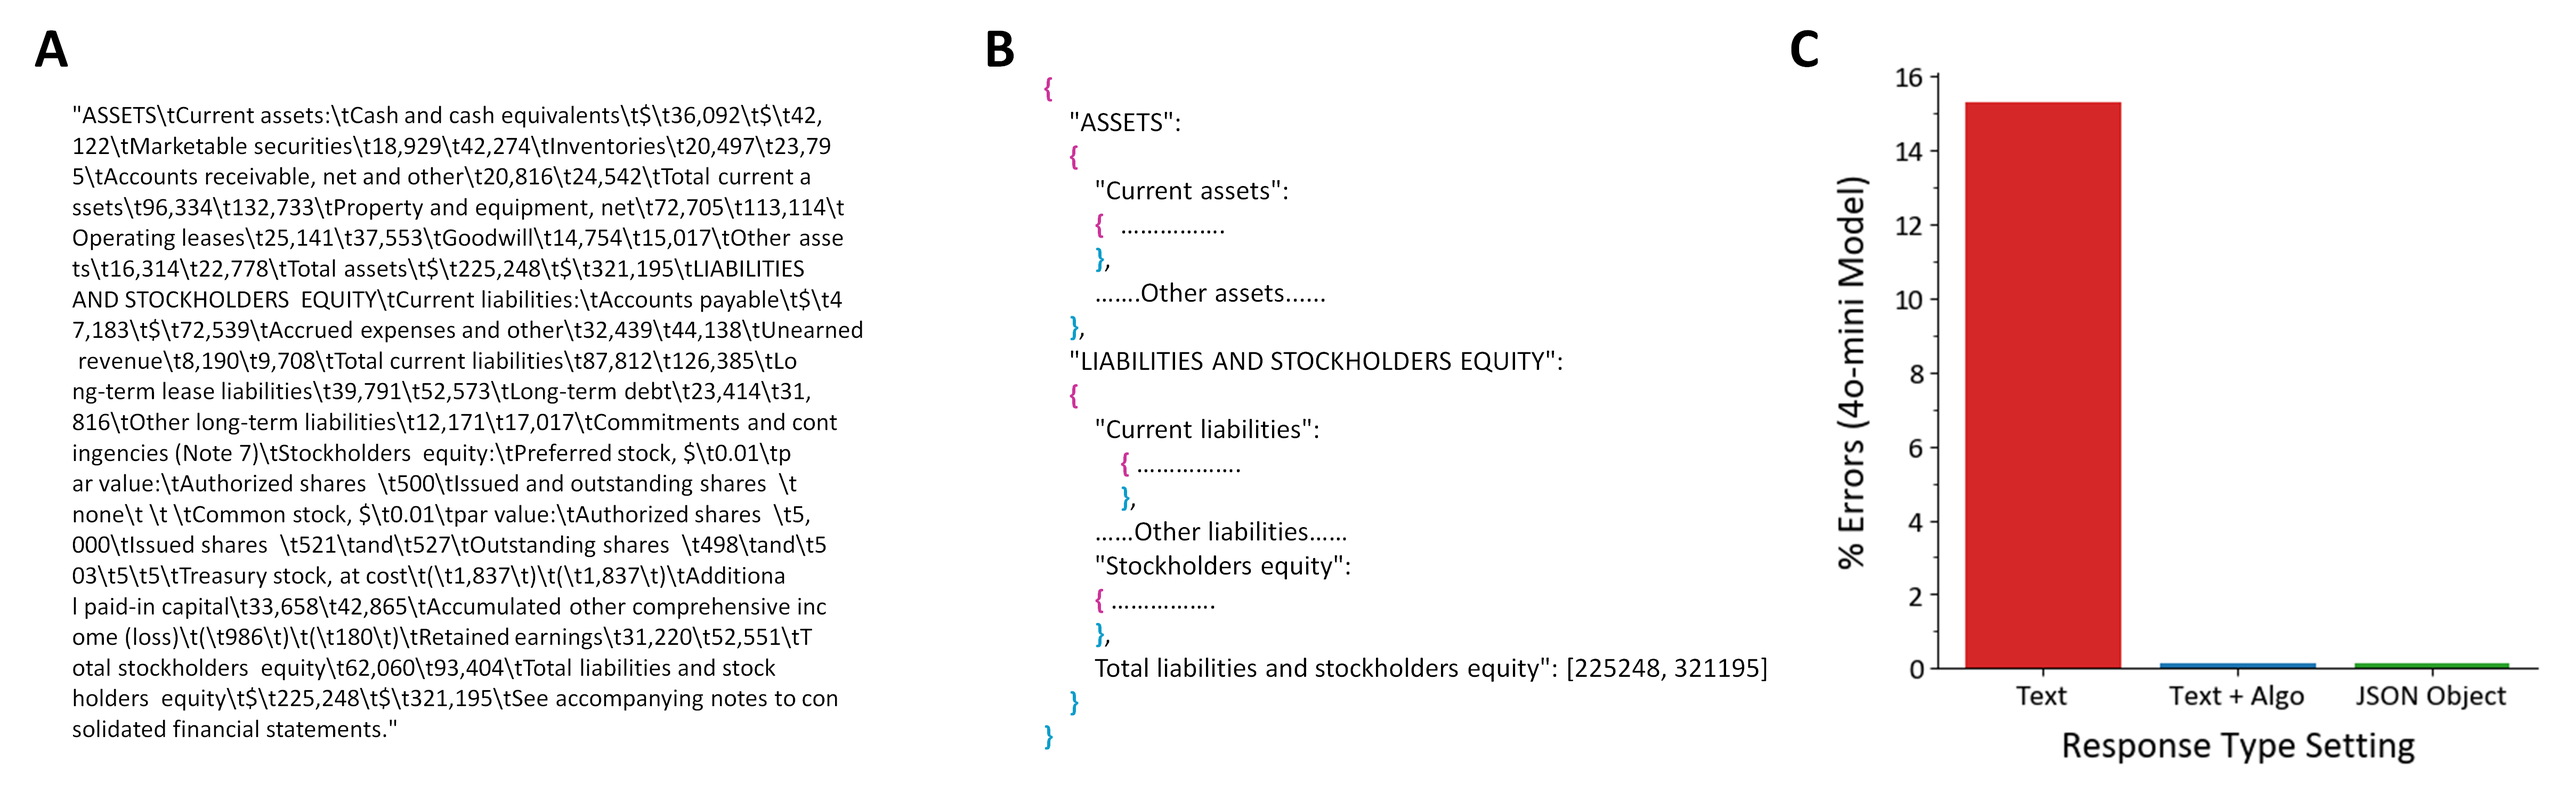
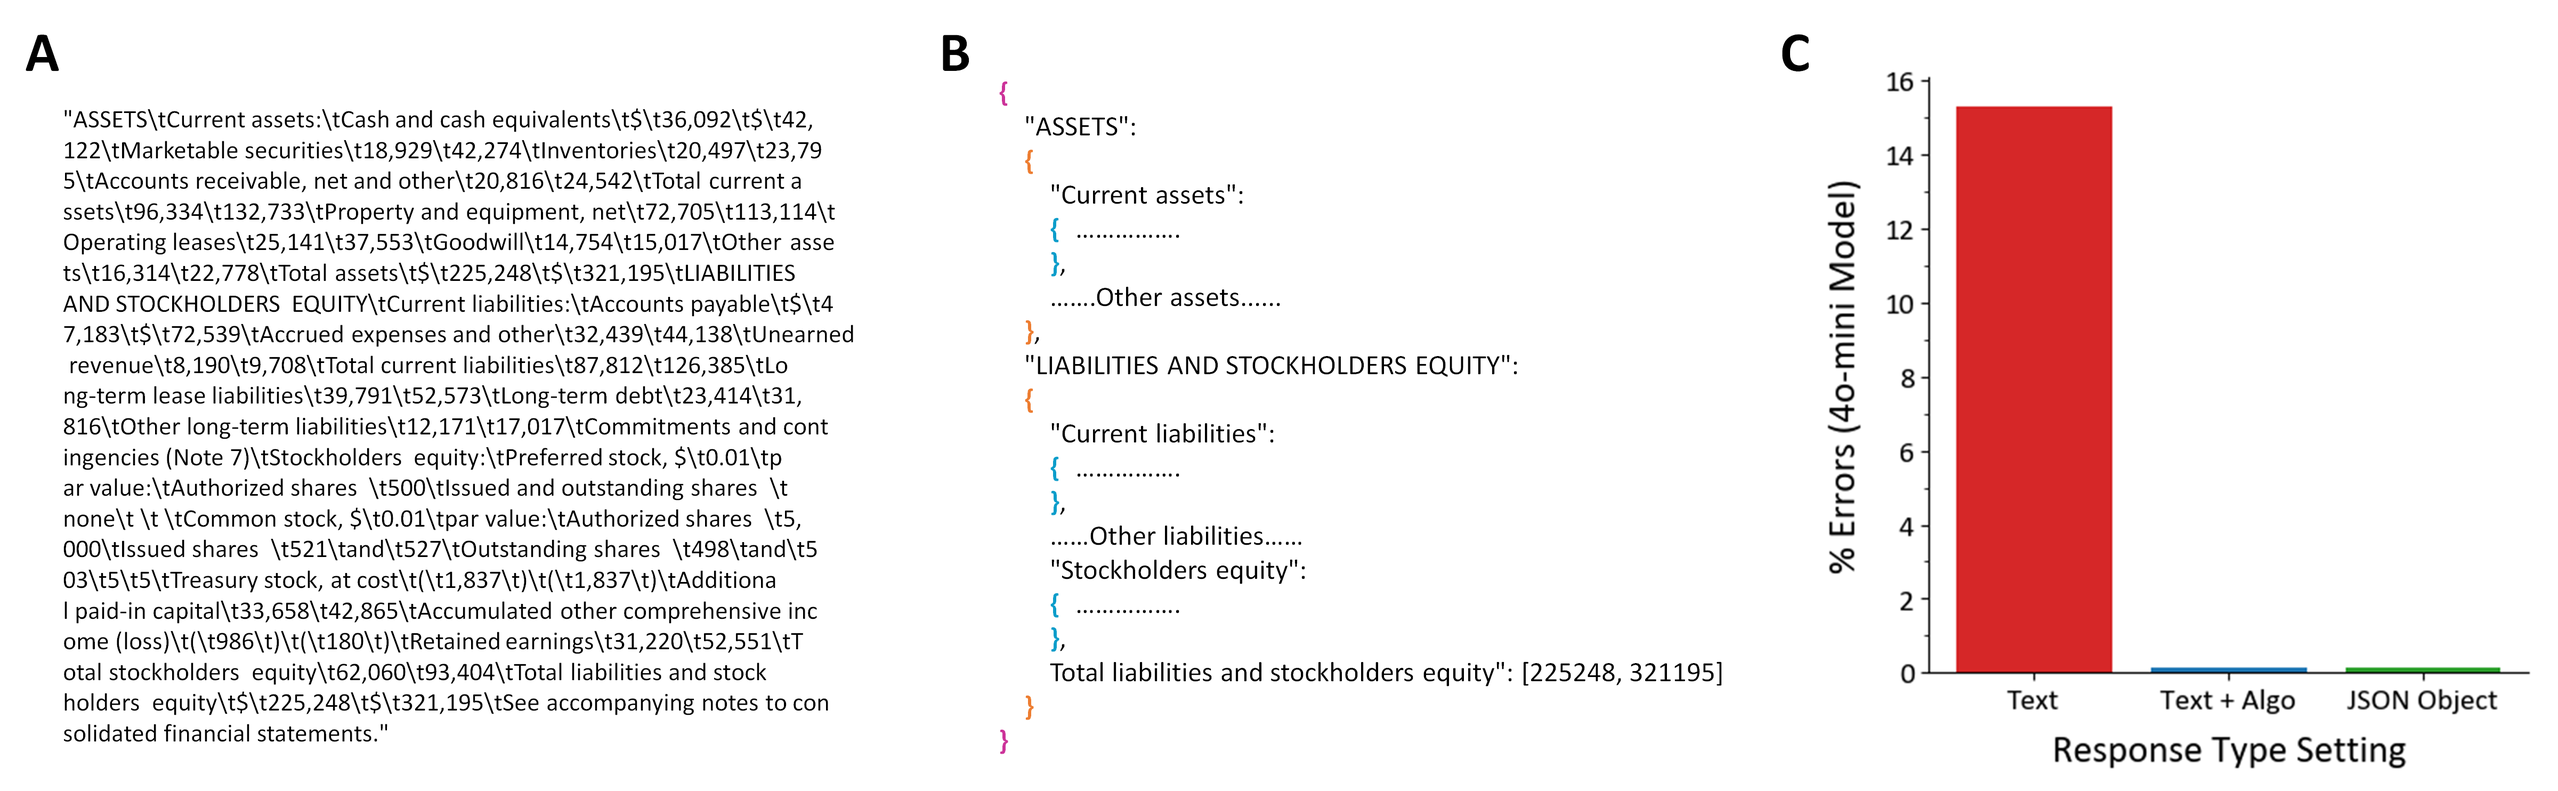
changed color coding of curly brackets in fig. 2.2. and made minor changes to fig caption

diff --git a/steps/step2_BStable2json/README.md b/steps/step2_BStable2json/README.md
@@ -55,7 +55,7 @@ This task was performed under two <ins>response type settings</ins>: "text", and
 ### <a id="figure-2-2"></a>
 ![](https://github.com/ronihogri/financial-doc-reader/blob/main/steps/step2_BStable2json/images/json_table_results.png)
 
-**Figure 2.2: JSON data extraction.** ***A***, An example of unstructured table body text. ***B***, Layout of the JSON structure produced by the mini LLM based on the text provided in *A* (dots represent nested key-value pairs, omitted from the figure for brevity). The JSON data preserved the original table’s structure and hierarchy. ***C***, When the model's response type was set to "text", its output often lacked the closing "\}" character, leading to a conversion error in 15.3% of cases. Applying algorithmic correction to text output ("text + algo"), or using the "json_object" response type, reduced the error rate by two orders of magnitude to 0.13%. 
+**Figure 2.2: JSON data extraction.** ***A***, An example of unstructured table body text. ***B***, Layout of the JSON structure produced by the mini LLM based on the text provided in *A*. Curly brackets are color-coded to highlight data hierarchy (three levels in this example). Dots represent nested key-value pairs, omitted from the figure for brevity. The JSON data preserved the original table’s structure and hierarchy. ***C***, When the model's response type was set to "text", its output often lacked the closing "\}" character, leading to a conversion error in 15.3% of cases. Applying algorithmic correction to text output ("text + algo"), or using the "json_object" response type, reduced the error rate by two orders of magnitude to 0.13%. 
 
 <br>
 
